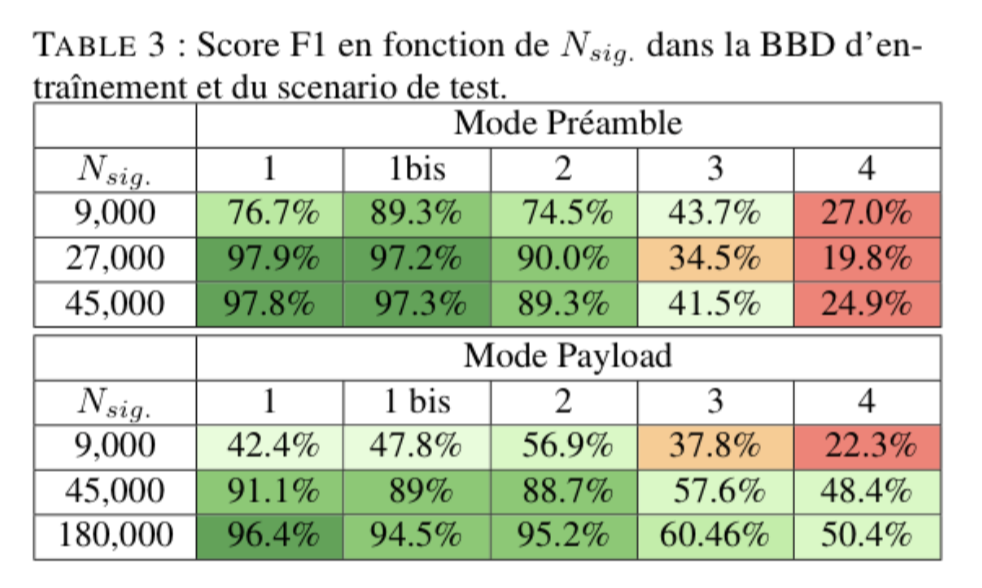
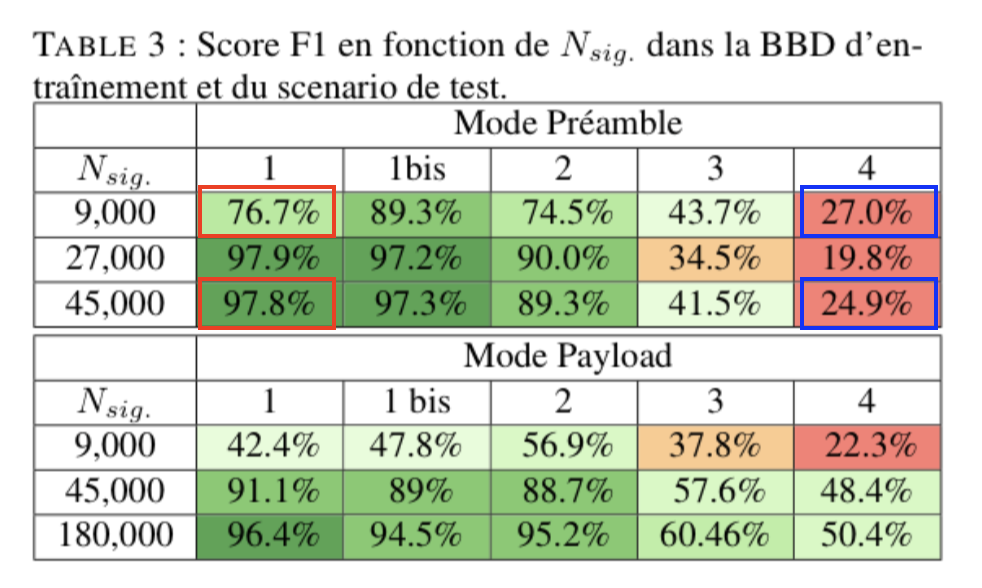
ReadmeV2 et modif Fig3 ajout de run1

diff --git a/README.md b/README.md
@@ -26,11 +26,12 @@ Les dossiers intitulé Run1 servent à l'entrainement et au test et les dossier 
 Dans ces dossier il a plusieurs fichiers, des fichier intulé bigLabels contiennent les labels des transmetteurs pour chaque séquence des fichier bigMat. Pour chaque intitulé on retrouve l'ensemble d'entrainement et de test. 
 Dans les dossiers on trouve également l'information Preamble ou Payload dans le nom des fichiers permettant de savoir de quel scénario il s'agit.
 
-Ici nous proposons d'entrainer le réseau avec le mode préambule avec 2 tailles de bases de données 9000 signaux par transmetteurs et 45000 signaux par transmetteur et de tester ces performance grace au scenario 1 (le même qu'en entrainement) et le scenario 4 (ici run 5). Ce qui correspond 
-
+Ici nous proposons d'entrainer le réseau avec le mode préambule avec 2 tailles de bases de données 9000 signaux par transmetteurs et 45000 signaux par transmetteur et de tester ces performance grace au scenario 1 (le même qu'en entrainement) et le scenario 4 (ici run 5). Ce qui correspond aux case en rouges pour le scenario 1 et aux case en bleu pour le scenario 4. Ces resultats seront fournit sous forme d'un tableau de type DataFrame.
 
 ![Texte alternatif](Image/Img.png "Le titre de mon image")
 
+La même chose est proposé pour le mode Payload avec 9000 et 145000 signaux par emetteurs.
 
 
+![Texte alternatif](Image/Payload.png "Le titre de mon image")
 
